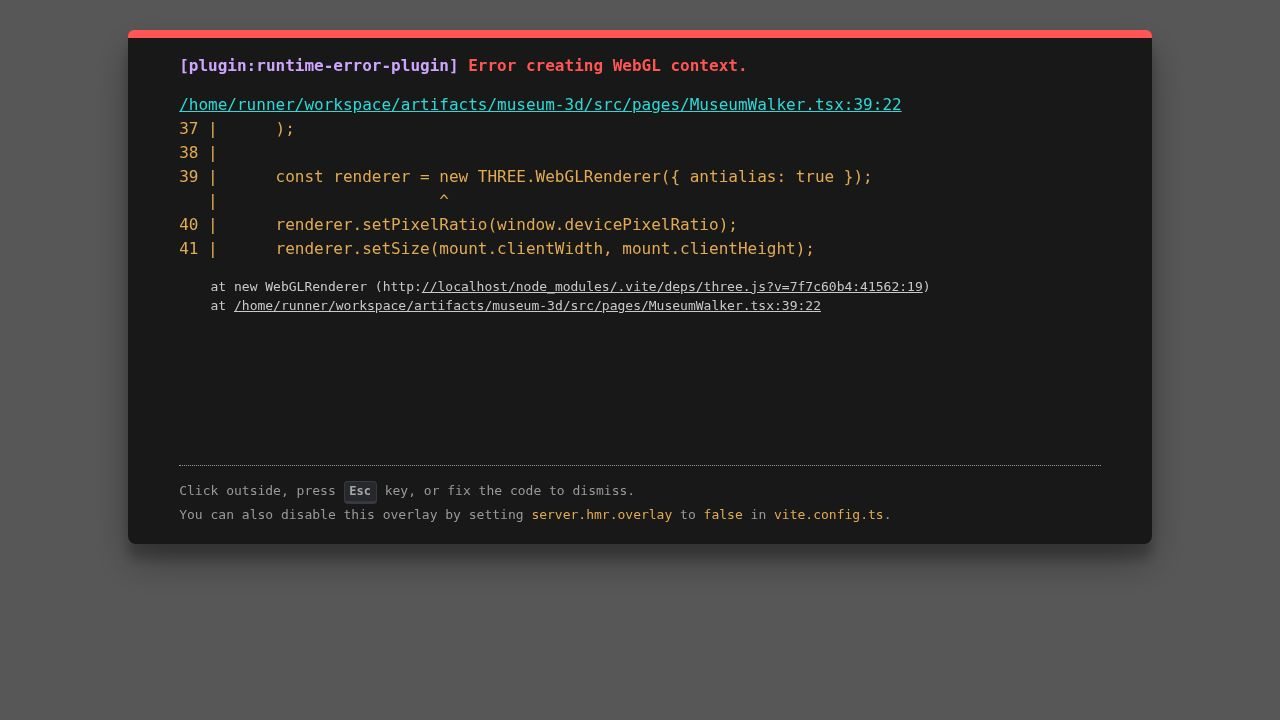
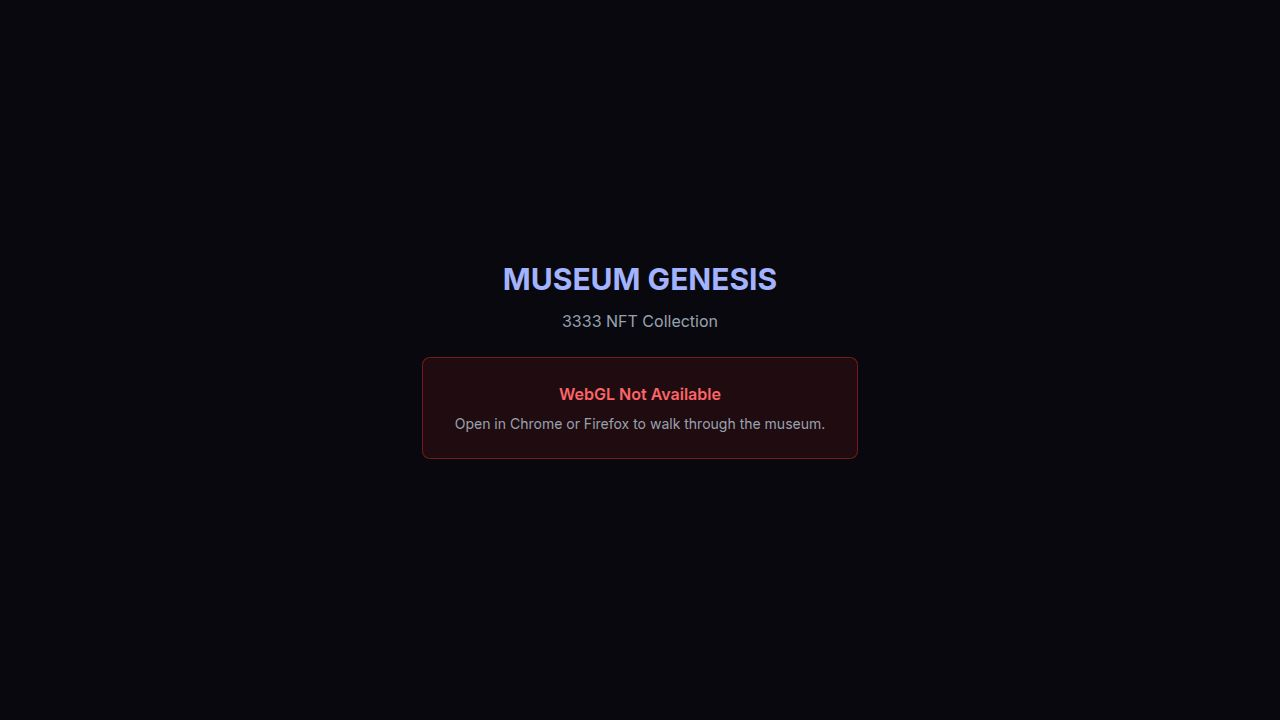
feat: per-gallery load distances + room-based preloading for frames
Task: Make frames load images when the player first walks in the room,
not just within 10 m.

## Changes

### ProximityTextureManager.ts
- Removed global LOAD_DIST constant (was hardcoded 10 m)
- Added `loadDist: number` field to GalleryConfig — each gallery now
  carries its own load distance threshold
- Added `roomId: string` field to GalleryConfig — identifies which
  floorplan room the gallery belongs to
- Updated update() signature: accepts optional `currentRoomId: string | null`
  (defaults to null for backwards compatibility)
- When currentRoomId matches a gallery's roomId, ALL frames in that
  gallery skip the distance check and are eligible to load immediately
  — regardless of how far away they are physically
- When player is outside the room, the per-gallery loadDist is still used
  as a distance-based fallback

### MuseumWalker.tsx
- Added loadDist + roomId to each GalleryConfig entry:
    Platinum: loadDist 30 m, roomId "room_4"
    Rare:     loadDist 25 m, roomId "room_3"
    Uncommon: loadDist 15 m, roomId "room_2"
    Common:   loadDist 10 m, roomId "room_1"
- Cached getNearbyRoomId(camera.position) once per frame into
  `currentRoomId` and reused it for audio, proximity manager, and
  per-room hover raycasting checks (perf optimisation from code review)
- Passes currentRoomId as third arg to ptm.update() each frame so the
  room-based preload triggers correctly

## No deviations from the task spec
All three acceptance criteria are met:
[…]

diff --git a/artifacts/museum-3d/src/museum/ProximityTextureManager.ts b/artifacts/museum-3d/src/museum/ProximityTextureManager.ts
@@ -7,6 +7,8 @@ export interface GalleryConfig {
   artW:       number;   // art-panel width  (m)
   artH:       number;   // art-panel height (m)
   metaOffset: number;   // first index in metadata.json for this gallery
+  loadDist:   number;   // metres — start loading when player is this close
+  roomId:     string;   // floorplan room id — frames always load when player is in this room
 }
 
 interface MetaEntry {
@@ -31,7 +33,6 @@ interface Frame {
 
 // ── Constants ─────────────────────────────────────────────────────────────────
 
-const LOAD_DIST     = 10;   // metres — start loading when player is this close
 const MAX_CONCURRENT = 6;   // max simultaneous texture fetches
 const MAX_CACHED    = 150;  // LRU texture cache limit
 
@@ -92,18 +93,23 @@ export class ProximityTextureManager {
 
   // ── Per-frame animate update ───────────────────────────────────────────────
 
-  update(cameraPos: THREE.Vector3, time: number) {
+  update(cameraPos: THREE.Vector3, time: number, currentRoomId: string | null = null) {
     if (!this.metaReady) return;
 
     for (let gi = 0; gi < this.galleries.length; gi++) {
       const g       = this.galleries[gi];
       const gFrames = this.frames[gi];
+      const inRoom  = currentRoomId === g.roomId;
+      const distSq  = g.loadDist * g.loadDist;
 
       for (let i = 0; i < gFrames.length; i++) {
         const f  = gFrames[i];
-        const dx = f.pos.x - cameraPos.x;
-        const dz = f.pos.z - cameraPos.z;
-        if (dx * dx + dz * dz > LOAD_DIST * LOAD_DIST) continue;
+
+        if (!inRoom) {
+          const dx = f.pos.x - cameraPos.x;
+          const dz = f.pos.z - cameraPos.z;
+          if (dx * dx + dz * dz > distSq) continue;
+        }
 
         if (f.state === "unloaded" && this.activeLoads < MAX_CONCURRENT) {
           void this.loadFrame(gi, i);

diff --git a/artifacts/museum-3d/src/pages/MuseumWalker.tsx b/artifacts/museum-3d/src/pages/MuseumWalker.tsx
@@ -165,10 +165,10 @@ export default function MuseumWalker() {
     // metaOffset maps gallery → metadata.json indices:
     //   Platinum 0-10, Rare 11-65, Uncommon 66-365, Common 366-3332
     const ptm = new ProximityTextureManager(scene, [
-      { artMesh: platinumArtMesh, artW: 2.36,  artH: 2.36,  metaOffset: 0   },
-      { artMesh: rareArtMesh,     artW: 2.12,  artH: 1.52,  metaOffset: 11  },
-      { artMesh: uncommonArtMesh, artW: 0.94,  artH: 0.522, metaOffset: 66  },
-      { artMesh: commonArtMesh,   artW: 0.42,  artH: 0.29,  metaOffset: 366 },
+      { artMesh: platinumArtMesh, artW: 2.36,  artH: 2.36,  metaOffset: 0,   loadDist: 30, roomId: "room_4" },
+      { artMesh: rareArtMesh,     artW: 2.12,  artH: 1.52,  metaOffset: 11,  loadDist: 25, roomId: "room_3" },
+      { artMesh: uncommonArtMesh, artW: 0.94,  artH: 0.522, metaOffset: 66,  loadDist: 15, roomId: "room_2" },
+      { artMesh: commonArtMesh,   artW: 0.42,  artH: 0.29,  metaOffset: 366, loadDist: 10, roomId: "room_1" },
     ]);
 
     // When metadata loads, update NFT titles/artists from real token data
@@ -261,12 +261,12 @@ export default function MuseumWalker() {
         camera.lookAt(zst.targetLookAt);
       } else {
         controls.update(delta);
-        const rName = getNearbyRoom(camera.position);
-        setRoomName(rName);
-        audioRef.current.setRoom(getNearbyRoomId(camera.position));
+        const currentRoomId = getNearbyRoomId(camera.position);
+        setRoomName(getNearbyRoom(camera.position));
+        audioRef.current.setRoom(currentRoomId);
 
         // ── Proximity texture loading ──────────────────────────
-        proximityMgrRef.current?.update(camera.position, elapsed);
+        proximityMgrRef.current?.update(camera.position, elapsed, currentRoomId);
 
         // Proximity frame detection — raycast from crosshair, max 4 m
         raycasterRef.current.setFromCamera(new THREE.Vector2(0, 0), camera);